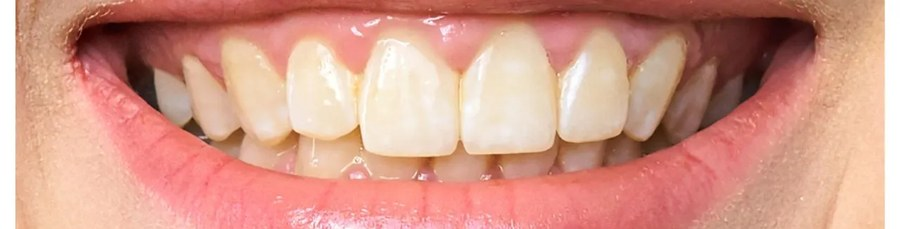
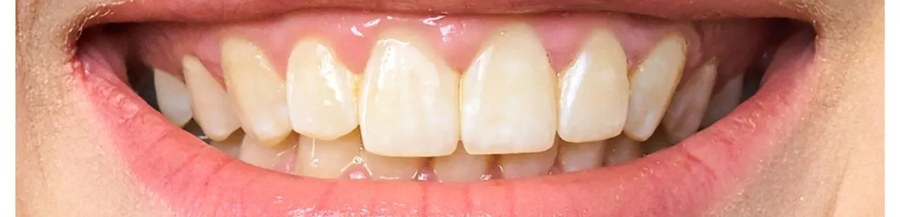
Fine-tune before/after vertical alignment, swap label text
Measured the gumline across many columns (not just one, which was
noisy) and found the after photo's teeth still sat ~11px lower on
average. Iterated the crop offset until the median gumline row matched
between before and after almost exactly, so the smile now reads as one
continuous mouth at any drag position. Also swap the visible
ANTES/DEPOIS label text per client request (left/right sides
unchanged).

Claude-Session: https://claude.ai/code/session_0196v2YvyDctQPfzLVmFZjXo

diff --git a/index.html b/index.html
@@ -217,11 +217,11 @@
 
         <div class="ba-slider" id="baSlider">
           <div class="ba-panel before">
-            <span class="ba-label">Antes</span>
+            <span class="ba-label">Depois</span>
             <img src="images/ba-before.jpg" alt="Sorriso antes das lentes de contato dental em porcelana" draggable="false" />
           </div>
           <div class="ba-panel after">
-            <span class="ba-label">Depois</span>
+            <span class="ba-label">Antes</span>
             <img src="images/ba-after.jpg" alt="Sorriso depois das lentes de contato dental em porcelana" draggable="false" />
           </div>
           <div class="ba-divider" aria-hidden="true"></div>

diff --git a/style.css b/style.css
@@ -808,7 +808,7 @@ section {
   position: relative;
   max-width: 620px;
   margin: 0 auto;
-  aspect-ratio: 900 / 229;
+  aspect-ratio: 900 / 217;
   border-radius: var(--radius-md);
   overflow: hidden;
   box-shadow: var(--shadow-soft);
